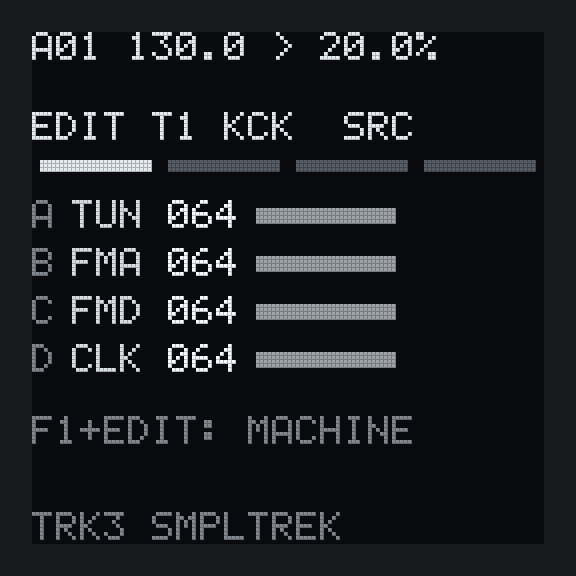
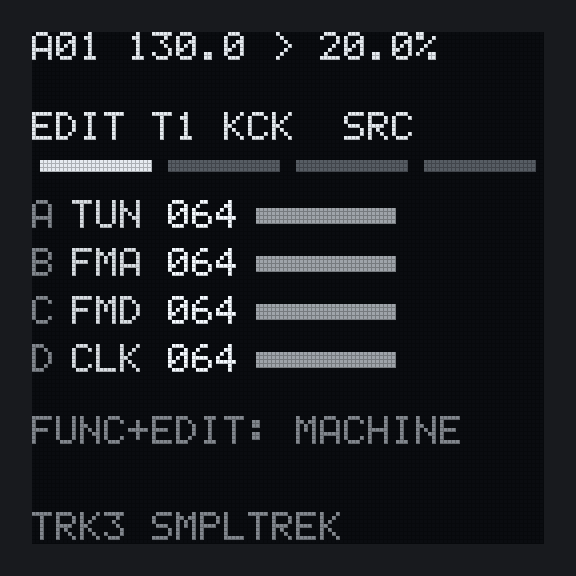
ui: on-screen hints name keys as printed on the panel (FUNC, PROJECT, EDIT)
F1+F3 AGAIN TO SAVE becomes FUNC+PROJECT TO SAVE, CLEARED FUNC+CLR UNDO,
FUNC+EDIT: MACHINE, FUNC+UP AUTOFILL, OK ADD  FUNC+LEFT DEL and
FUNC+POWER > SETTINGS; all within 21 characters. Tests, unit checklist,
cheatsheet and screenshots follow.

Claude-Session: https://claude.ai/code/session_01Tw2EaEME1Xj7nTHs2DcefX

Changed region(s): [[0.0938, 0.7188, 0.8125, 0.7812]]

diff --git a/app/app.hpp b/app/app.hpp
@@ -566,7 +566,7 @@ public:
                     } else {
                         save_armed_ = true;
                         save_armed_at_ms_ = last_ms_;
-                        notice("F1+F3 AGAIN TO SAVE");
+                        notice("FUNC+PROJECT TO SAVE");
                     }
                 }
                 break;
@@ -942,7 +942,7 @@ public:
         } else {
             mark(GestureKind::erase, selected_, 0);
             post(Cmd::track_erase, uint8_t(selected_));
-            notice("CLEARED  F1+CLR UNDO");   // 21 characters at most
+            notice("CLEARED FUNC+CLR UNDO");    // 21 characters at most
         }
         end_gesture();
     }
@@ -1998,7 +1998,7 @@ public:
         }
 
         // The machine is changed somewhere else, and nothing said where.
-        canvas.text(0, 96, "F1+EDIT: MACHINE", 7);
+        canvas.text(0, 96, "FUNC+EDIT: MACHINE", 7);
     }
 
     // --- MIXER: four levels at a time, with meters -----------------------
@@ -2550,7 +2550,7 @@ public:
 
         // The gesture that is not otherwise discoverable.
         canvas.text(0, 78, "STEP ASSIGNS TO MACRO", 7);
-        canvas.text(0, 87, "F1+UP AUTOFILL", 7);
+        canvas.text(0, 87, "FUNC+UP AUTOFILL", 7);
 
         // What MUTATE will do, and to which track.
         out = line;
@@ -2865,7 +2865,7 @@ public:
             }
         }
 
-        canvas.text(0, 103, "OK ADD  F1+LEFT DEL", 7);
+        canvas.text(0, 103, "OK ADD  FUNC+LEFT DEL", 7);
         canvas.text(0, 112, "VALUE REPEATS", 7);
     }
 
@@ -2996,7 +2996,7 @@ public:
         // No commas: the font has none, and each drew as '?'.
         canvas.text(0, 94, "CLK SRC/OUT SYNC OUT", 7);
         canvas.text(0, 103, "MIDI CH: SET IN", 7);
-        canvas.text(0, 112, "F1+POWER > SETTINGS", 7);
+        canvas.text(0, 112, "FUNC+POWER > SETTINGS", 7);
     }
 
     void draw_project(enaga::Canvas &canvas) {

diff --git a/tests/test_ui.cpp b/tests/test_ui.cpp
@@ -1048,7 +1048,7 @@ TEST(ui_two_held_steps_make_a_range_that_survives_until_a_fresh_single_press) {
     // of.
     key(ENAGA_KEY_CLR);
     pump(2);
-    CHECK_EQ(UiProbe::notice(app), "CLEARED  F1+CLR UNDO");
+    CHECK_EQ(UiProbe::notice(app), "CLEARED FUNC+CLR UNDO");
     for (int s = 0; s < kStepsPerTrack; s++) CHECK(!trig_at(0, s));
 }
 
@@ -2603,13 +2603,13 @@ TEST(ui_f1_f3_twice_saves_and_once_does_not) {
     Strata &app = fresh();
     shift_key(ENAGA_KEY_F3);
     CHECK_EQ(UiProbe::mode(app), int(Mode::project));
-    CHECK_EQ(UiProbe::notice(app), "F1+F3 AGAIN TO SAVE");
+    CHECK_EQ(UiProbe::notice(app), "FUNC+PROJECT TO SAVE");
     pump(4);
     CHECK(app_storage().busy_text() == nullptr);   // once is not a save
 
     pump(2100);                                    // too late: this arms again instead
     shift_key(ENAGA_KEY_F3);
-    CHECK_EQ(UiProbe::notice(app), "F1+F3 AGAIN TO SAVE");
+    CHECK_EQ(UiProbe::notice(app), "FUNC+PROJECT TO SAVE");
 
     shift_key(ENAGA_KEY_F3);
     CHECK_EQ(UiProbe::notice(app), "SAVING");

diff --git a/docs/UNIT_CHECKLIST.md b/docs/UNIT_CHECKLIST.md
@@ -231,7 +231,7 @@ project and never needs a restart."*
 
 - [ ] F3 opens PROJECT. The bank grid shows A, the live pattern is boxed, and the top line's
       pattern now follows the chain rather than reading `A01` for ever.
-- [ ] F1 + F3 twice saves (once only says `F1+F3 AGAIN TO SAVE`). `/ENAGA/DATA/STRATA/PROJECTS/<NAME>/` holds `PROJECT.BIN` (277 bytes),
+- [ ] F1 + F3 twice saves (once only says `FUNC+PROJECT TO SAVE`). `/ENAGA/DATA/STRATA/PROJECTS/<NAME>/` holds `PROJECT.BIN` (277 bytes),
       `KIT.BIN` (1,076 bytes) and a `BANK_x.BIN` per touched bank.
 - [ ] Only dirty banks are written. Edit one pattern in bank A, save, and confirm no
       `BANK_B.BIN` appears.
@@ -899,7 +899,7 @@ below (`tests/test_ui.cpp`, "the arrow keys"); what it cannot tell is whether it
 - [ ] PROJECT: the arrows move a frame over the 16 slots and OK queues the framed one; a STEP key
       queues and moves the frame there. F1 + UP toggles the chain, F1 + DOWN reloads the sample.
       On SETUP, CLR goes back.
-- [ ] Notices (an octave, a scene captured, `F1+F3 AGAIN TO SAVE`) appear on the second line in
+- [ ] Notices (an octave, a scene captured, `FUNC+PROJECT TO SAVE`) appear on the second line in
       every mode, not only in GRID.
 
 ## F1 + F5 restart, F1 + F6 stop and reset

diff --git a/docs/CHEATSHEET.md b/docs/CHEATSHEET.md
@@ -21,7 +21,7 @@ FUNC and press X; "hold STEP" means a STEP key held down while you do the rest.
 
 The Lofi-12 XT and CyDrums print other names on the function block; this sheet uses the SmplTrek's.
 The F-key labels are from Enaga's `docs/hardware.md`, taken from the original firmware's test page.
-Some on-screen hints still use the code names: `F1+F3 AGAIN TO SAVE`, `F1+CLR UNDO`, `F1+EDIT: MACHINE`.
+The on-screen hints use the same names (`FUNC+PROJECT TO SAVE`, `FUNC+EDIT: MACHINE`).
 
 ## Modes: how to get there
 
